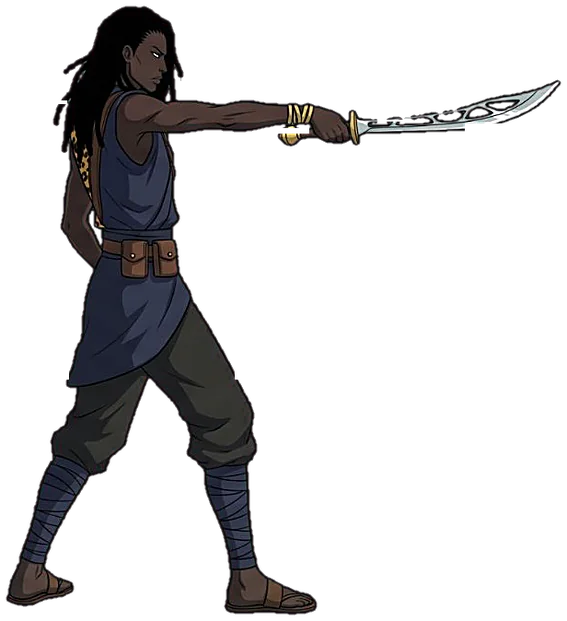
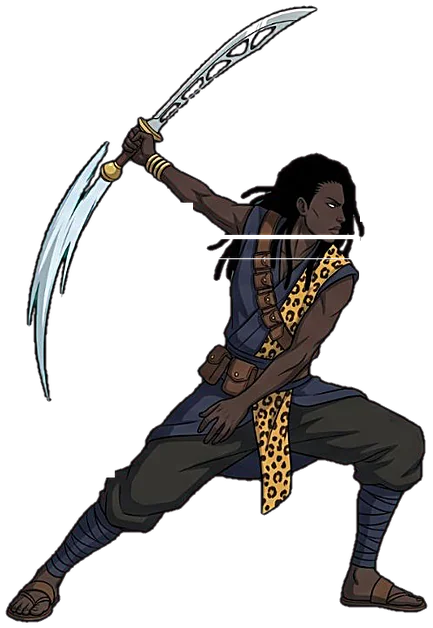
Blay v4: dynamic swings (wide crouch rising cut, clockwise overhead, backhand, leaping uppercut, crushing cut, low sweep), head-first dive with blue phantom trail, shunpo teleports, chained ult
Claude-Session: https://claude.ai/code/session_01KCvu1msLSb5oPSxPwoexAA

diff --git a/squads/game.js b/squads/game.js
@@ -1,9 +1,9 @@
 // Gyeaman Squads: Akan squad battler, chapter 1.
 // Battles are turn based on a speed turn order (Dislyte style): every hero picks Basic, Skill (cooldown) or Ultimate (energy)
 // and a target; enemies show their next move. Big moves get impact frames, small ones stay quiet.
-import { KF } from './kf.js?v=20261021f';
-import { HEROES, MONS, STAGES, REGIONS, DIFF, RARITY, STARTERS, SKILL_MAX, skillCost, xpNeed, STAR_SHARDS, LOCKED_CHAPTERS, PULL_COST, PULL10_COST, PITY, PULL_RATES, CLASSES, GROWTH, SPELLS } from './data.js?v=20261021f';
-import { drawAdinkra, adinkraPath, adinkraSvg, ADINKRA } from './adinkra.js?v=20261021f';
+import { KF } from './kf.js?v=20261021g';
+import { HEROES, MONS, STAGES, REGIONS, DIFF, RARITY, STARTERS, SKILL_MAX, skillCost, xpNeed, STAR_SHARDS, LOCKED_CHAPTERS, PULL_COST, PULL10_COST, PITY, PULL_RATES, CLASSES, GROWTH, SPELLS } from './data.js?v=20261021g';
+import { drawAdinkra, adinkraPath, adinkraSvg, ADINKRA } from './adinkra.js?v=20261021g';
 
 const ROOT = /\/squads\/?$|\/squads\/index\.html$/.test(location.pathname) ? '../assets/' : 'assets/';
 const A = ROOT + 'sq/';
@@ -62,7 +62,7 @@ const SFX = {
 
 // ---------------- images ----------------
 const IM = {};
-const AV = '?v=20261021f'; // bump when art files are replaced under the same name (defeats stale browser/CDN caches)
+const AV = '?v=20261021g'; // bump when art files are replaced under the same name (defeats stale browser/CDN caches)
 function img(src) {
   if (!IM[src]) { const e = { el: new Image(), ok: false, sc: {}, sil: {} }; e.el.decoding = 'async'; e.el.onload = () => { e.ok = true; }; e.el.src = src; IM[src] = e; }
   return IM[src];
@@ -96,14 +96,15 @@ const SEQ = {
       { p: 'ultF_2', ms: 230, x: 1.04, y: .58, lines: 1, ghost: 1, ev: 'k3' }, { p: 'ultF_3', ms: 420, x: 1.08, y: 0, lines: 1, ev: 's4' },
       { p: 'recover_1', ms: 130, x: .6, y: .36, ghost: 1 }, { p: 'recover_2', ms: 130, x: .25, y: .42, ghost: 1 }, { p: 'recover_3', ms: 180, x: 0, y: 0, ev: 'land' }],
   },
-  blay: { // shunpo: anticipation, vanish with a smear, reappear sliding (no in-between frames)
-    recover: [{ p: 'idle_3', ms: 130, hold: 1, ghost: 1 }, { p: 'idle_3', ms: 60, hold: 1, ev: 'blink' }, { p: 'basic_1', ms: 190, x: 0, snap: 1, ev: 'appear' }, { p: 'idle_0', ms: 110, x: 0 }],
-    basic: [{ p: 'idle_3', ms: 130, x: 0, ghost: 1 }, { p: 'idle_3', ms: 60, x: 0, ev: 'blink' }, { p: 'basic_1', ms: 170, x: .75, snap: 1, ev: 'appear' }, { p: 'basic_2', ms: 300, x: .8, ev: 'cut' }, { p: 'basic_3', ms: 180, x: .8 }],
-    blay1: [{ p: 'idle_3', ms: 130, x: 0, ghost: 1 }, { p: 'idle_3', ms: 60, x: 0, ev: 'blink' }, { p: 'basic_1', ms: 150, x: .7, snap: 1, ev: 'appear' }, { p: 'twin_1', ms: 250, x: .75, ev: 'cut1' }, { p: 'twin_2', ms: 290, x: .75, ev: 'cut2' }, { p: 'twin_3', ms: 180, x: .75 }],
+  blay: { // shunpo = anticipation, vanish, reappear sliding; the dive leaves a blue phantom trail
+    recover: [{ p: 'dash_1', ms: 140, hold: 1, ghost: 1 }, { p: 'dash_1', ms: 60, hold: 1, ev: 'blink' }, { p: 'dash_3', ms: 170, x: 0, snap: 1, ev: 'appear' }, { p: 'idle_0', ms: 110, x: 0 }],
+    basic: [{ p: 'dash_1', ms: 140, hold: 1, ghost: 1 }, { p: 'dash_1', ms: 60, hold: 1, ev: 'blink' }, { p: 'dash_3', ms: 160, x: .75, snap: 1, ev: 'appear' }, { p: 'swA_1', ms: 320, x: .8, ev: 'cut' }],
+    blay1: [{ p: 'dash_1', ms: 140, hold: 1, ghost: 1 }, { p: 'dash_1', ms: 60, hold: 1, ev: 'blink' }, { p: 'dash_3', ms: 160, x: .75, snap: 1, ev: 'appear' }, { p: 'swA_2', ms: 280, x: .8, ev: 'cut1' }, { p: 'swA_3', ms: 300, x: .82, ev: 'cut2' }],
     blay2: [{ p: 'parry_1', ms: 560, x: 0, ev: 'guard' }],
-    blayRush: [{ p: 'idle_3', ms: 130, x: 0, ghost: 1 }, { p: 'idle_3', ms: 60, x: 0, ev: 'blink' }, { p: 'basic_1', ms: 120, x: .95, snap: 1, ev: 'appear' }, { p: 'basic_2', ms: 320, x: 1, ev: 'cut' }, { p: 'basic_3', ms: 160, x: 1 }],
+    blayRush: [{ p: 'dash_1', ms: 160, x: 0, ghost: 1 }, { p: 'dash_2', ms: 280, x: .9, y: .35, phantom: 1, ev: 'dive' }, { p: 'dash_3', ms: 150, x: .9, y: 0, phantom: 1 }, { p: 'swB_3', ms: 260, x: .92, ev: 'sweep' }, { p: 'swB_1', ms: 300, x: .92, y: .25, ev: 'rise' }, { p: 'swB_2', ms: 200, x: .9, y: 0 }],
     blayRally: [{ p: 'parry_3', ms: 700, x: 0, ev: 'rally' }],
-    ult: [{ p: 'ult_0', ms: 160, x: 0 }, { p: 'ult_1', ms: 560, x: -.03, ev: 'charge' }, { p: 'ult_2', ms: 800, x: .12, ev: 'release' }, { p: 'ult_3', ms: 520, x: .12 }, { p: 'idle_0', ms: 120, x: 0 }],
+    ult: [{ p: 'ultX_1', ms: 520, x: 0, ev: 'charge' }, { p: 'dash_1', ms: 160, x: 0, ghost: 1 }, { p: 'dash_2', ms: 280, x: .85, y: .35, phantom: 1, ev: 'dive' }, { p: 'dash_3', ms: 150, x: .85, y: 0, phantom: 1 }, { p: 'swB_1', ms: 220, x: .9, y: .3, ev: 'u1' }, { p: 'swA_2', ms: 220, x: .9, y: 0, ev: 'u2' }, { p: 'swA_3', ms: 220, x: .92, ev: 'u3' }, { p: 'swB_3', ms: 220, x: .94, ev: 'u4' },
+      { p: 'dash_1', ms: 140, hold: 1, ghost: 1 }, { p: 'dash_1', ms: 60, hold: 1, ev: 'blink' }, { p: 'dash_3', ms: 160, x: .05, snap: 1, ev: 'appear' }, { p: 'ultX_2', ms: 820, x: .15, ev: 'release' }, { p: 'ultX_3', ms: 520, x: .15 }, { p: 'idle_0', ms: 120, x: 0 }],
   },
 };
 const reachTo = (u, f) => Math.max(0, Math.abs(pos(f)[0] - pos(u)[0]) - f.w * .42 - u.w * .3);
@@ -115,14 +116,15 @@ async function runKF(u, f, seq, onEv) {
     u.kf = st.p; u.kfA = st.snap ? { x0: x1, x1, y0: y1, y1, t0: B.t, d: .001 } : { x0: cur[0], x1, y0: cur[1], y1, t0: B.t, d: st.ms / 1000 * .7 };
     if (st.lines) { const [hx, hy] = pos(u); fx('lines', 260, { x0: hx + cur[0], x1: hx + x1, y: hy - u.h * .5, h: u.h * .7 }); }
     if (st.ghost) B.ghosts.push({ u, p: st.p, x: pos(u)[0] + cur[0], y: pos(u)[1] - cur[1], t0: B.t });
+    u.kfPh = !!st.phantom;
     if (st.ev && onEv) await onEv(st.ev, st);
     await wait(st.ms);
   }
 }
 function kfOff(u) { const a = u.kfA; if (!a) return [0, 0]; const t = Math.min(1, (B.t - a.t0) / (a.d || .001)), e = 1 - (1 - t) ** 3; return [a.x0 + (a.x1 - a.x0) * e, a.y0 + (a.y1 - a.y0) * e]; }
-const kfEnd = (u) => { u.kf = null; u.kfA = null; u.kfAlpha = 1; };
+const kfEnd = (u) => { u.kfPh = false; u.kf = null; u.kfA = null; u.kfAlpha = 1; };
 const VIO = '#c58bff';
-const SPL = { dufie: 'ultE_2', blay: 'ult_2' }; // ultimate splash pose
+const SPL = { dufie: 'ultE_2', blay: 'ultX_2' }; // ultimate splash pose
 async function dufieRecover(u, f) { await runKF(u, f, SEQ.dufie.recover, async (ev) => { if (ev === 'land') { const [x, y] = pos(u); burst(x, y, ['#d8c9b0', '#fff'], 10, 3); } }); kfEnd(u); }
 CHOREO.dufie = {
   basic: async (u, f, m, o) => { let d = 0; await runKF(u, f, SEQ.dufie.basic, async (ev) => { const [x, y] = pos(f);
@@ -168,19 +170,27 @@ const shunpo = (u, f) => async (ev, st) => { const [hx, hy] = pos(u), d = u.side
   if (ev === 'appear') { const [ox] = kfOff(u); u.kfAlpha = 1; fx('streak', 260, { x0: u._sx ?? hx, x1: hx + d * ox, y: hy - u.h * .45, h: u.h * .55, c: '#1a2a6a' }); burst(hx + d * ox, hy, ['#d8c9b0', '#fff'], 8, 3); } };
 async function blayRecover(u, f) { const sh = shunpo(u, f); await runKF(u, f, SEQ.blay.recover, sh); kfEnd(u); }
 CHOREO.blay = {
-  basic: async (u, f, m, o) => { let d = 0; const sh = shunpo(u, f); await runKF(u, f, SEQ.blay.basic, async (ev, st) => { await sh(ev, st); if (ev === 'cut') { sproj(u, 0, { s: .6, ms: 480, yy: .64 }); await wait(140); d = hit(u, f, m, { ...o, color: BLU }); hitStop(70); } }); await blayRecover(u, f); return d; },
+  basic: async (u, f, m, o) => { let d = 0; const sh = shunpo(u, f); await runKF(u, f, SEQ.blay.basic, async (ev, st) => { await sh(ev, st);
+      if (ev === 'cut') { sproj(u, 1, { s: .9, ms: 520, yy: .5, rot: -.35 }); await wait(130); d = hit(u, f, m, { ...o, color: BLU }); hitStop(80); } }); await blayRecover(u, f); return d; },
   blay1: async (u, f, m) => { const sh = shunpo(u, f); await runKF(u, f, SEQ.blay.blay1, async (ev, st) => { await sh(ev, st);
-      if (ev === 'cut1') { sproj(u, 2, { s: .9, rot: .25, ms: 520, yy: .55 }); await wait(130); hit(u, f, .8 * m, { color: BLU }); hitStop(80); }
-      if (ev === 'cut2' && f.alive) { sproj(u, 2, { s: .9, rot: -.25, flip: 1, ms: 520, yy: .6 }); await wait(130); hit(u, f, .8 * m, { color: BLU }); hitStop(90); addSt(f, 'defDown', 2); float(f, 'DEF▼', '#ff5a4a', .8); } });
+      if (ev === 'cut1') { sproj(u, 2, { s: 1.1, ms: 520, yy: .6 }); await wait(120); hit(u, f, .8 * m, { color: BLU }); hitStop(80); }
+      if (ev === 'cut2' && f.alive) { sproj(u, 0, { s: .7, ms: 520, yy: .5, flip: 1 }); await wait(120); hit(u, f, .8 * m, { color: BLU }); hitStop(90); addSt(f, 'defDown', 2); float(f, 'DEF▼', '#ff5a4a', .8); } });
     await blayRecover(u, f); },
   blay2: async (u, f, m) => { await runKF(u, null, SEQ.blay.blay2, async (ev) => { if (ev === 'guard') { u.st.guard = 1; fx('spr', 600, { k: 'shield', unit: u, hs: .9, a: .45 }); float(u, 'PARRY', '#9fd0ff', .8); } }); kfEnd(u); },
-  blayRush: async (u, f, m) => { const sh = shunpo(u, f); await runKF(u, f, SEQ.blay.blayRush, async (ev, st) => { await sh(ev, st); if (ev === 'cut') { sproj(u, 1, { s: 1.1, ms: 520, yy: .64 }); await wait(120); hit(u, f, 1.4 * m, { color: BLU }); hitStop(110); B.shake = 6; } });
+  blayRush: async (u, f, m) => { const sh = shunpo(u, f); await runKF(u, f, SEQ.blay.blayRush, async (ev, st) => { await sh(ev, st);
+      if (ev === 'sweep') { sproj(u, 0, { s: .6, ms: 460, yy: .18 }); await wait(110); hit(u, f, .7 * m, { color: BLU }); hitStop(70); }
+      if (ev === 'rise' && f.alive) { sproj(u, 2, { s: 1.2, ms: 500, yy: .7, flip: 1 }); await wait(110); hit(u, f, .7 * m, { color: BLU }); hitStop(100); B.shake = 6; } });
     await blayRecover(u, f); pushTM(u, .3); float(u, 'TURN +30%', '#7ee08a', .8); },
   blayRally: async (u, f, m) => { await runKF(u, null, SEQ.blay.blayRally, async (ev) => { if (ev === 'rally') { const [x, y] = pos(u); fx('star', 600, { x, y: y - u.h * 1.05, r: u.h * .4, c: BLU }); delete u.st.stun; delete u.st.burn; addSt(u, 'atkUp', 3); u.atkUpK = 1.25; float(u, 'ATK▲', '#ffb070', .8); } }); kfEnd(u); },
-  ult: async (u, f, m, T) => { await runKF(u, f, SEQ.blay.ult, async (ev) => { const [hx, hy] = pos(u);
+  ult: async (u, f, m, T) => { const sh = shunpo(u, f); let execd = false; await runKF(u, f, SEQ.blay.ult, async (ev, st) => { await sh(ev, st); const [hx, hy] = pos(u);
+      const cut = (k, o, part) => { sproj(u, k, o); if (f.alive) { hit(u, f, part * m, { color: BLU }); hitStop(60); } };
       if (ev === 'charge') { fx('star', 420, { x: hx, y: hy - u.h * .45, r: u.h * .6, c: BLU }); B.shake = 4; }
-      if (ev === 'release') { await impactFrames(T, u); sproj(u, 3, { s: 2.6, ms: 1000, yy: .6, x1: B.w * 1.6 }); await wait(80); sproj(u, 0, { s: 1.3, ms: 760, yy: .4, x1: B.w * 1.5 }); await wait(170); B.shake = 16;
-        if (f.hp / f.max < .3 && !f.boss) { hit(u, f, 99, { big: 1, color: BLU }); float(f, 'EXECUTED', '#ffd23c', 1.3); } else hit(u, f, 3.0 * m, { big: 1, color: BLU }); hitStop(160); } });
+      if (ev === 'u1') cut(2, { s: 1.2, ms: 460, yy: .75, flip: 1 }, .25);
+      if (ev === 'u2') cut(2, { s: 1.2, ms: 460, yy: .6 }, .25);
+      if (ev === 'u3') cut(0, { s: .8, ms: 460, yy: .5, flip: 1 }, .25);
+      if (ev === 'u4') cut(1, { s: .9, ms: 460, yy: .3, rot: -.35 }, .25);
+      if (ev === 'release') { await impactFrames(T, u); sproj(u, 3, { s: 2.6, ms: 1000, yy: .6, x1: B.w * 1.6 }); await wait(80); sproj(u, 0, { s: 1.3, ms: 760, yy: .45, x1: B.w * 1.5 }); await wait(170); B.shake = 16;
+        if (!f.alive) return; if (f.hp / f.max < .3 && !f.boss) { hit(u, f, 99, { big: 1, color: BLU }); float(f, 'EXECUTED', '#ffd23c', 1.3); } else hit(u, f, 2.0 * m, { big: 1, color: BLU }); hitStop(160); } });
     kfEnd(u); },
 };
 // draw one clip frame with feet at (0,0) and body height bodyH
@@ -966,8 +976,10 @@ function loop(now) {
   B.fx = B.fx.filter((f) => f.type !== 'ink' || drawFx(g, f)); // ink symbols sit behind the fighters
   const units = [...B.heroes, ...B.foes].filter((u) => u.alive || u.dieT > 0).sort((a, b) => a.fy - b.fy);
   const portrait = r.height > r.width * .9, baseH = portrait ? Math.min(r.height * .36, r.width * .42) : Math.min(r.height * .5, r.width * .24);
-  B.ghosts = (B.ghosts || []).filter((q) => B.t - q.t0 < .28);
-  for (const q of B.ghosts) { const a = 1 - (B.t - q.t0) / .28, k0 = img(poseSrc(q.u.id, 0)); if (!k0.ok) continue; g.save(); g.translate(q.x, q.y); g.globalCompositeOperation = 'lighter'; g.globalAlpha = a * .35; g.filter = 'brightness(0.6) sepia(1) hue-rotate(230deg) saturate(3)'; drawKF(g, q.u.id, q.p, q.u.h); g.restore(); }
+  // phantom trail: a moving keyframe step flagged phantom drops blue afterimages every few frames
+  for (const u of [...(B.heroes || []), ...(B.foes || [])]) if (u.kfPh && u.kf && B.t - (u.phT || 0) > .025) { u.phT = B.t; const [ox, oy] = kfOff(u), d = u.side ? -1 : 1; B.ghosts.push({ u, p: u.kf, x: pos(u)[0] + d * ox, y: pos(u)[1] - oy, t0: B.t, life: .42, blue: 1 }); }
+  B.ghosts = (B.ghosts || []).filter((q) => B.t - q.t0 < (q.life || .28));
+  for (const q of B.ghosts) { const a = 1 - (B.t - q.t0) / (q.life || .28), k0 = img(poseSrc(q.u.id, 0)); if (!k0.ok) continue; g.save(); g.translate(q.x, q.y); g.globalCompositeOperation = 'lighter'; g.globalAlpha = a * (q.blue ? .55 : .35); g.filter = q.blue ? 'brightness(0.55) sepia(1) hue-rotate(185deg) saturate(6)' : 'brightness(0.6) sepia(1) hue-rotate(230deg) saturate(3)'; drawKF(g, q.u.id, q.p, q.u.h); g.restore(); }
   for (const u of units) {
     u.h = baseH * u.size * u.depth;
     if (u.enter) u.enter = Math.max(0, u.enter - dt * 2.2);

diff --git a/squads/kf.js b/squads/kf.js
@@ -1,5 +1,5 @@
 // generated by split4.py: keyframe poses cut from Firefly pose sheets. [file, w, h, anchor x, floor y] in px
 export const KF = {
   dufie: { ref: 625, p: {"basic_0":["dufie_basic_0.webp",544,631,271,625],"basic_1":["dufie_basic_1.webp",594,572,296,553],"basic_2":["dufie_basic_2.webp",423,690,213,653],"basic_3":["dufie_basic_3.webp",490,391,245,363],"idle_0":["dufie_idle_0.webp",556,630,277,625],"idle_1":["dufie_idle_1.webp",461,660,230,649],"idle_2":["dufie_idle_2.webp",355,496,176,481],"idle_3":["dufie_idle_3.webp",447,488,223,467],"step_0":["dufie_step_0.webp",395,710,196,705],"step_1":["dufie_step_1.webp",545,501,272,615],"step_2":["dufie_step_2.webp",630,540,314,540],"step_3":["dufie_step_3.webp",424,693,213,703],"kick_0":["dufie_kick_0.webp",499,632,248,626],"kick_1":["dufie_kick_1.webp",579,426,290,602],"kick_2":["dufie_kick_2.webp",372,740,186,732],"kick_3":["dufie_kick_3.webp",438,413,218,377],"throw_0":["dufie_throw_0.webp",552,630,275,625],"throw_1":["dufie_throw_1.webp",341,648,170,643],"throw_2":["dufie_throw_2.webp",543,642,270,637],"throw_3":["dufie_throw_3.webp",508,584,253,568],"vanish_0":["dufie_vanish_0.webp",529,631,264,625],"vanish_1":["dufie_vanish_1.webp",467,707,233,677],"vanish_2":["dufie_vanish_2.webp",316,551,157,632],"vanish_3":["dufie_vanish_3.webp",503,618,249,610],"recover_0":["dufie_recover_0.webp",395,729,196,716],"recover_1":["dufie_recover_1.webp",463,680,231,716],"recover_2":["dufie_recover_2.webp",399,503,199,684],"recover_3":["dufie_recover_3.webp",552,631,275,625],"ultE_0":["dufie_ultE_0.webp",555,651,277,645],"ultE_1":["dufie_ultE_1.webp",474,765,236,703],"ultE_2":["dufie_ultE_2.webp",470,791,235,726],"ultE_3":["dufie_ultE_3.webp",575,557,287,666],"ultF_0":["dufie_ultF_0.webp",586,652,291,646],"ultF_1":["dufie_ultF_1.webp",570,559,285,691],"ultF_2":["dufie_ultF_2.webp",566,508,284,729],"ultF_3":["dufie_ultF_3.webp",552,736,279,731],"ultC_0":["dufie_ultC_0.webp",554,632,276,626],"ultC_1":["dufie_ultC_1.webp",449,480,225,473],"ultC_2":["dufie_ultC_2.webp",488,725,245,716],"ultC_3":["dufie_ultC_3.webp",590,639,295,633],"ultD_0":["dufie_ultD_0.webp",675,485,337,680],"ultD_1":["dufie_ultD_1.webp",528,663,264,652],"ultD_2":["dufie_ultD_2.webp",577,581,287,571],"ultD_3":["dufie_ultD_3.webp",545,631,271,626]} },
-  blay: { ref: 645, p: {"idle_0":["blay_idle_0.webp",291,651,144,645],"idle_1":["blay_idle_1.webp",412,623,205,623],"idle_2":["blay_idle_2.webp",360,419,180,423],"idle_3":["blay_idle_3.webp",419,430,209,431],"basic_0":["blay_basic_0.webp",292,651,144,646],"basic_1":["blay_basic_1.webp",425,443,211,448],"basic_2":["blay_basic_2.webp",567,621,283,619],"basic_3":["blay_basic_3.webp",291,651,144,646],"twin_0":["blay_twin_0.webp",291,652,144,646],"twin_1":["blay_twin_1.webp",513,604,255,601],"twin_2":["blay_twin_2.webp",348,682,175,675],"twin_3":["blay_twin_3.webp",315,650,156,642],"parry_0":["blay_parry_0.webp",292,652,144,646],"parry_1":["blay_parry_1.webp",234,649,117,642],"parry_2":["blay_parry_2.webp",514,626,257,622],"parry_3":["blay_parry_3.webp",296,697,150,688],"ult_0":["blay_ult_0.webp",291,653,143,646],"ult_1":["blay_ult_1.webp",445,488,223,477],"ult_2":["blay_ult_2.webp",672,476,334,489],"ult_3":["blay_ult_3.webp",299,652,147,646]} },
+  blay: { ref: 645, p: {"idle_0":["blay_idle_0.webp",291,651,144,645],"idle_1":["blay_idle_1.webp",412,623,205,623],"idle_2":["blay_idle_2.webp",360,419,180,423],"idle_3":["blay_idle_3.webp",419,430,209,431],"parry_0":["blay_parry_0.webp",292,652,144,646],"parry_1":["blay_parry_1.webp",234,649,117,642],"parry_2":["blay_parry_2.webp",514,626,257,622],"parry_3":["blay_parry_3.webp",296,697,150,688],"swA_0":["blay_swA_0.webp",291,651,144,646],"swA_1":["blay_swA_1.webp",433,628,216,623],"swA_2":["blay_swA_2.webp",386,668,193,661],"swA_3":["blay_swA_3.webp",431,589,218,584],"swB_0":["blay_swB_0.webp",292,652,144,646],"swB_1":["blay_swB_1.webp",354,671,177,697],"swB_2":["blay_swB_2.webp",381,564,189,555],"swB_3":["blay_swB_3.webp",530,425,264,422],"dash_0":["blay_dash_0.webp",292,652,144,646],"dash_1":["blay_dash_1.webp",453,434,225,444],"dash_2":["blay_dash_2.webp",906,239,451,634],"dash_3":["blay_dash_3.webp",495,353,246,356],"ultX_0":["blay_ultX_0.webp",293,652,145,647],"ultX_1":["blay_ultX_1.webp",494,632,247,626],"ultX_2":["blay_ultX_2.webp",658,595,328,591],"ultX_3":["blay_ultX_3.webp",275,652,135,647]} },
 };

diff --git a/squads/index.html b/squads/index.html
@@ -14,10 +14,10 @@
 <link rel="preconnect" href="https://fonts.googleapis.com">
 <link rel="preconnect" href="https://fonts.gstatic.com" crossorigin>
 <link href="https://fonts.googleapis.com/css2?family=Anton&family=Bangers&family=Karla:wght@400;700;800&display=swap" rel="stylesheet">
-<link rel="stylesheet" href="style.css?v=20261021f">
+<link rel="stylesheet" href="style.css?v=20261021g">
 </head>
 <body>
 <div id="app"></div>
-<script type="module" src="game.js?v=20261021f"></script>
+<script type="module" src="game.js?v=20261021g"></script>
 </body>
 </html>
